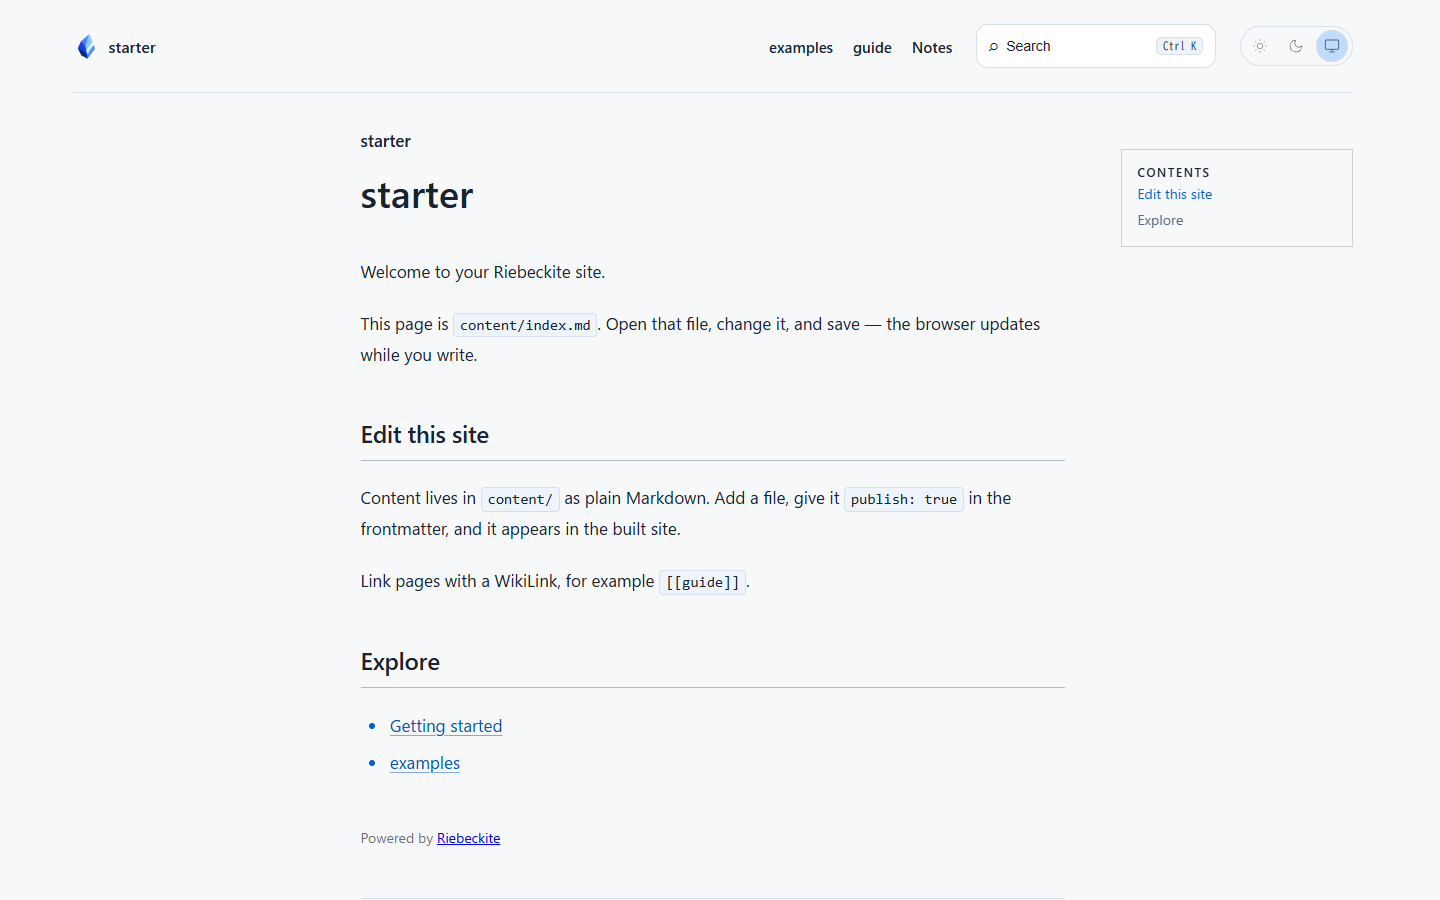
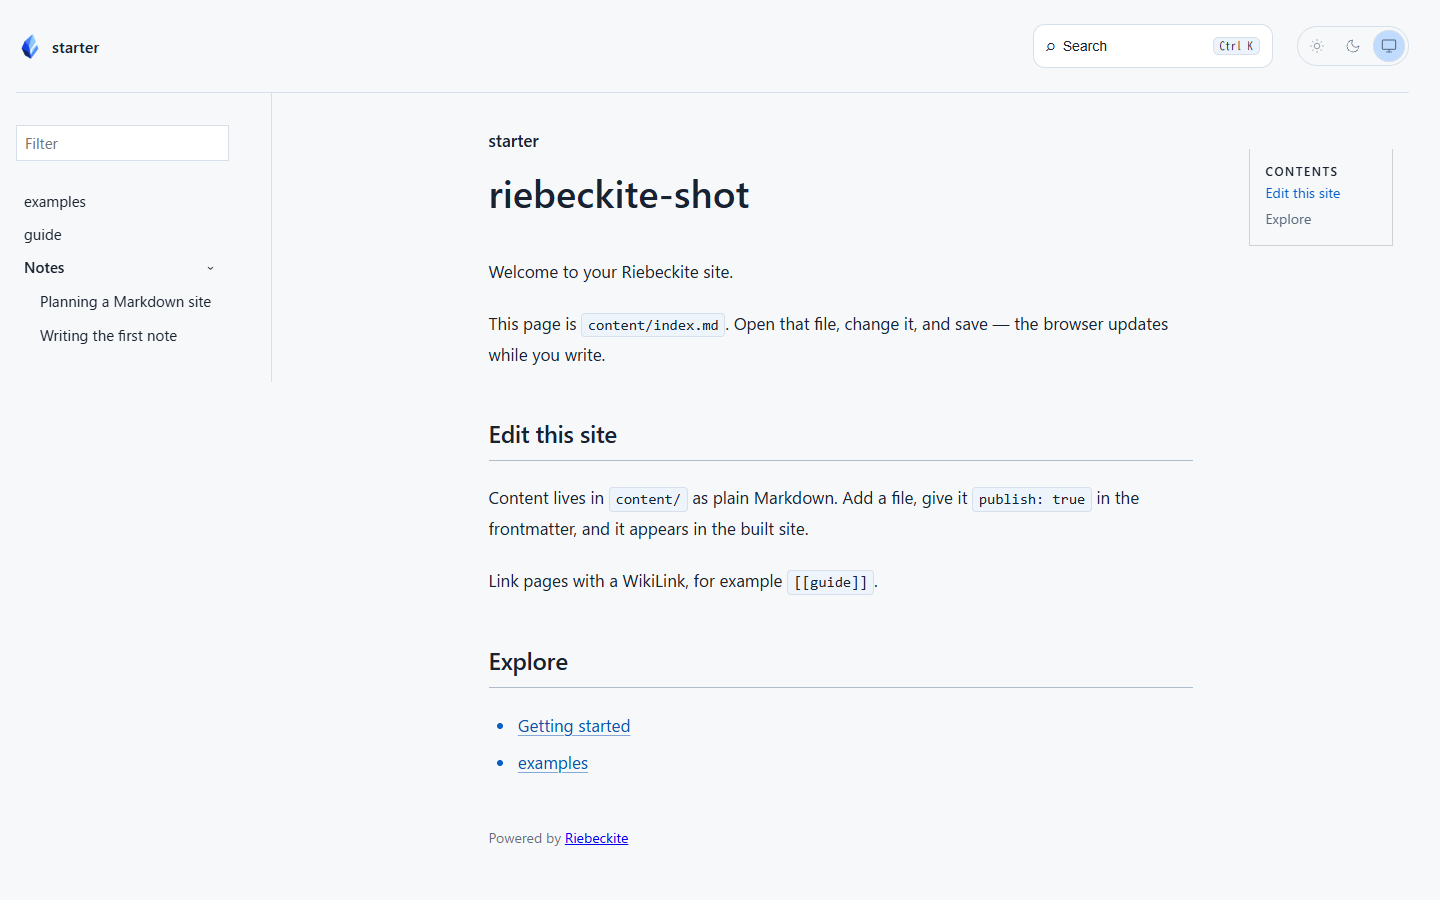
スタータープリセットの目次表示を修正

diff --git a/packages/create-riebeckite/templates/scaffold/presets/starter/app/styles/site-explorer.css b/packages/create-riebeckite/templates/scaffold/presets/starter/app/styles/site-explorer.css
@@ -1,3 +1,7 @@
+.riebeckite-page {
+  --site-explorer-width: 16rem;
+}
+
 .site-shell {
   display: grid;
   width: 100%;
@@ -15,8 +19,8 @@
 
 @media (min-width: 48rem) {
   .site-shell {
-    width: min(100% - 2rem, var(--rb-layout-page-max, 80rem));
-    grid-template-columns: minmax(12rem, 16rem) minmax(0, 1fr);
+    width: min(100% - 2rem, calc(var(--rb-layout-page-max, 80rem) + var(--site-explorer-width)));
+    grid-template-columns: minmax(12rem, var(--site-explorer-width)) minmax(0, 1fr);
     align-items: start;
   }
 
@@ -30,5 +34,11 @@
     padding-block: var(--rb-space-4, 2rem);
     padding-inline-end: var(--rb-space-4, 2rem);
     border-inline-end: 1px solid var(--rb-color-border);
+  }
+}
+
+@media (max-width: 89.999rem) {
+  .site-article .site-article__aside {
+    display: none;
   }
 }

diff --git a/packages/create-riebeckite/test/__golden__/scaffold/starter/app/styles/site-explorer.css b/packages/create-riebeckite/test/__golden__/scaffold/starter/app/styles/site-explorer.css
@@ -1,3 +1,7 @@
+.riebeckite-page {
+  --site-explorer-width: 16rem;
+}
+
 .site-shell {
   display: grid;
   width: 100%;
@@ -15,8 +19,8 @@
 
 @media (min-width: 48rem) {
   .site-shell {
-    width: min(100% - 2rem, var(--rb-layout-page-max, 80rem));
-    grid-template-columns: minmax(12rem, 16rem) minmax(0, 1fr);
+    width: min(100% - 2rem, calc(var(--rb-layout-page-max, 80rem) + var(--site-explorer-width)));
+    grid-template-columns: minmax(12rem, var(--site-explorer-width)) minmax(0, 1fr);
     align-items: start;
   }
 
@@ -30,5 +34,11 @@
     padding-block: var(--rb-space-4, 2rem);
     padding-inline-end: var(--rb-space-4, 2rem);
     border-inline-end: 1px solid var(--rb-color-border);
+  }
+}
+
+@media (max-width: 89.999rem) {
+  .site-article .site-article__aside {
+    display: none;
   }
 }

diff --git a/packages/create-riebeckite/templates/scaffold/presets/starter/app/styles/site-header.css b/packages/create-riebeckite/templates/scaffold/presets/starter/app/styles/site-header.css
@@ -8,7 +8,7 @@
 
 .site-header,
 .site-footer {
-  width: min(100% - 2rem, var(--rb-layout-page-max, 80rem));
+  width: min(100% - 2rem, calc(var(--rb-layout-page-max, 80rem) + var(--site-explorer-width, 16rem)));
 }
 
 .site-header__home {

diff --git a/packages/create-riebeckite/test/__golden__/scaffold/starter/app/styles/site-header.css b/packages/create-riebeckite/test/__golden__/scaffold/starter/app/styles/site-header.css
@@ -8,7 +8,7 @@
 
 .site-header,
 .site-footer {
-  width: min(100% - 2rem, var(--rb-layout-page-max, 80rem));
+  width: min(100% - 2rem, calc(var(--rb-layout-page-max, 80rem) + var(--site-explorer-width, 16rem)));
 }
 
 .site-header__home {
